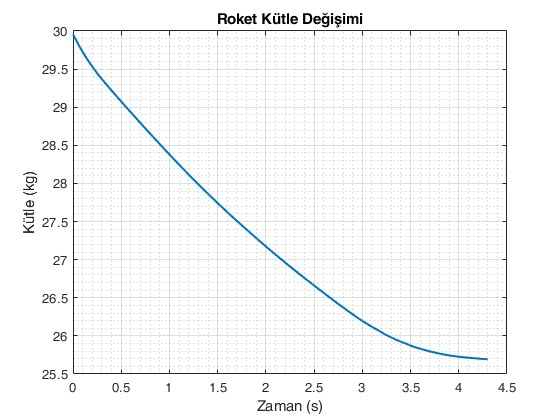
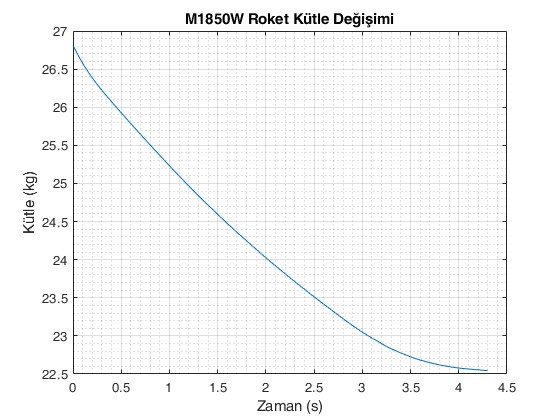
asda

diff --git a/Grafikler/motor_kutle_m1850.m b/Grafikler/motor_kutle_m1850.m
@@ -1,40 +1,30 @@
-clc;           % Clear the command window.
-clear;         % Clear all variables.
-close all;     % Close all figure windows.
+clc;clear;close all;
 
-% Read data from CSV file
 data = readmatrix('M1850W.xlsx');
 
-% Extract THRUST and TIME from data
-THRUST = data(:, 2);  % Assuming THRUST is in the second column
-TIME = data(:, 1);    % Assuming TIME is in the first column
+THRUST = data(:, 2);
+TIME = data(:, 1);
 
-% Interpolate thrust values
 T_YANMA = 0:0.01:4.301;
 itki = interp1(TIME, THRUST, T_YANMA, 'linear', 'extrap');
 
-% Constants
-G = 9.807;          % Acceleration due to gravity in m/s^2
-ISP = 189.4;        % Specific impulse in seconds
-initial_mass = 29.958;  % Initial mass of the rocket in kg
+G = 9.807;
+ISP = 189.4;
+initial_mass = 26.810;
 
-% Calculate mass flow rate
 dm = itki / (G * ISP);
 
-% Initialize mass array
 mass = zeros(1, length(T_YANMA));
 mass(1) = initial_mass;
 
-% Update mass over time
 for k = 2:length(T_YANMA)
-    mass(k) = mass(k-1) - dm(k-1) * 0.01;  % Update mass
+    mass(k) = mass(k-1) - dm(k-1) * 0.01;
 end
 
-% Plot results
 figure;
-plot(T_YANMA, mass, 'LineWidth', 1.5);
+plot(T_YANMA, mass);
 grid on;
 grid minor;
-title('Roket Kütle Değişimi');
+title('M1850W Roket Kütle Değişimi');
 xlabel('Zaman (s)');
 ylabel('Kütle (kg)');

diff --git a/Grafikler/motor_aero.m b/Grafikler/motor_aero.m
@@ -30,6 +30,6 @@ figure;
 plot(TIME, mass);
 grid on;
 grid minor;
-title('Roket Kütle Değişimi');
+title('M2500T Roket Kütle Değişimi');
 xlabel('Zaman (s)');
 ylabel('Kütle (kg)');
